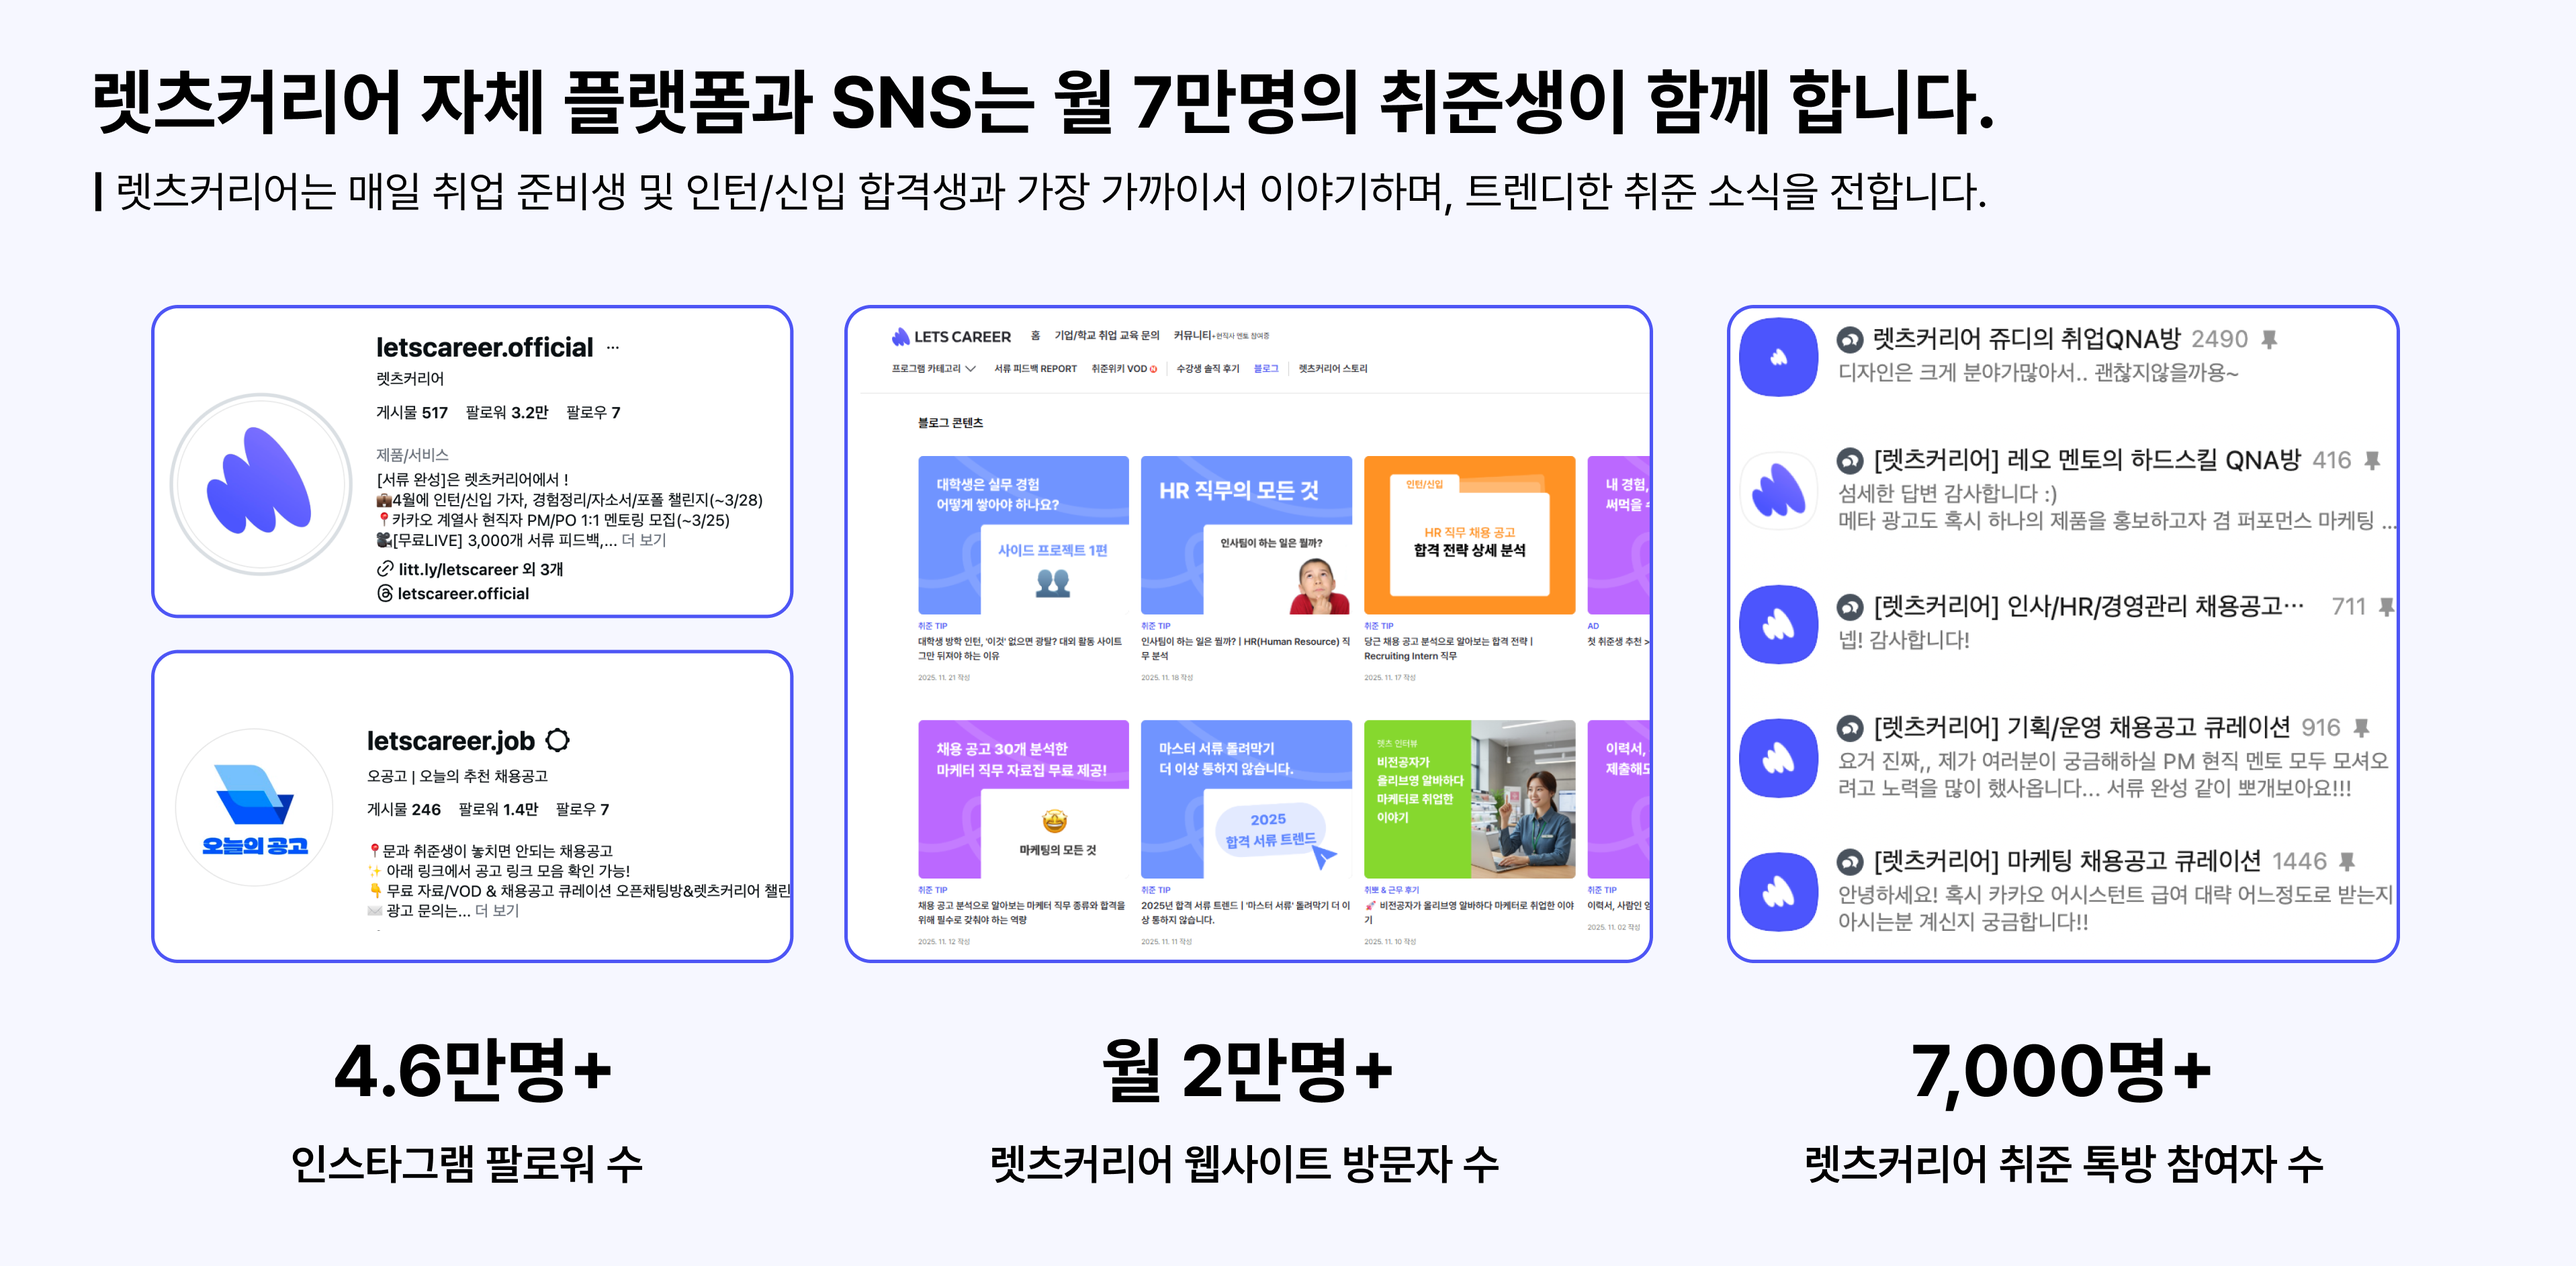
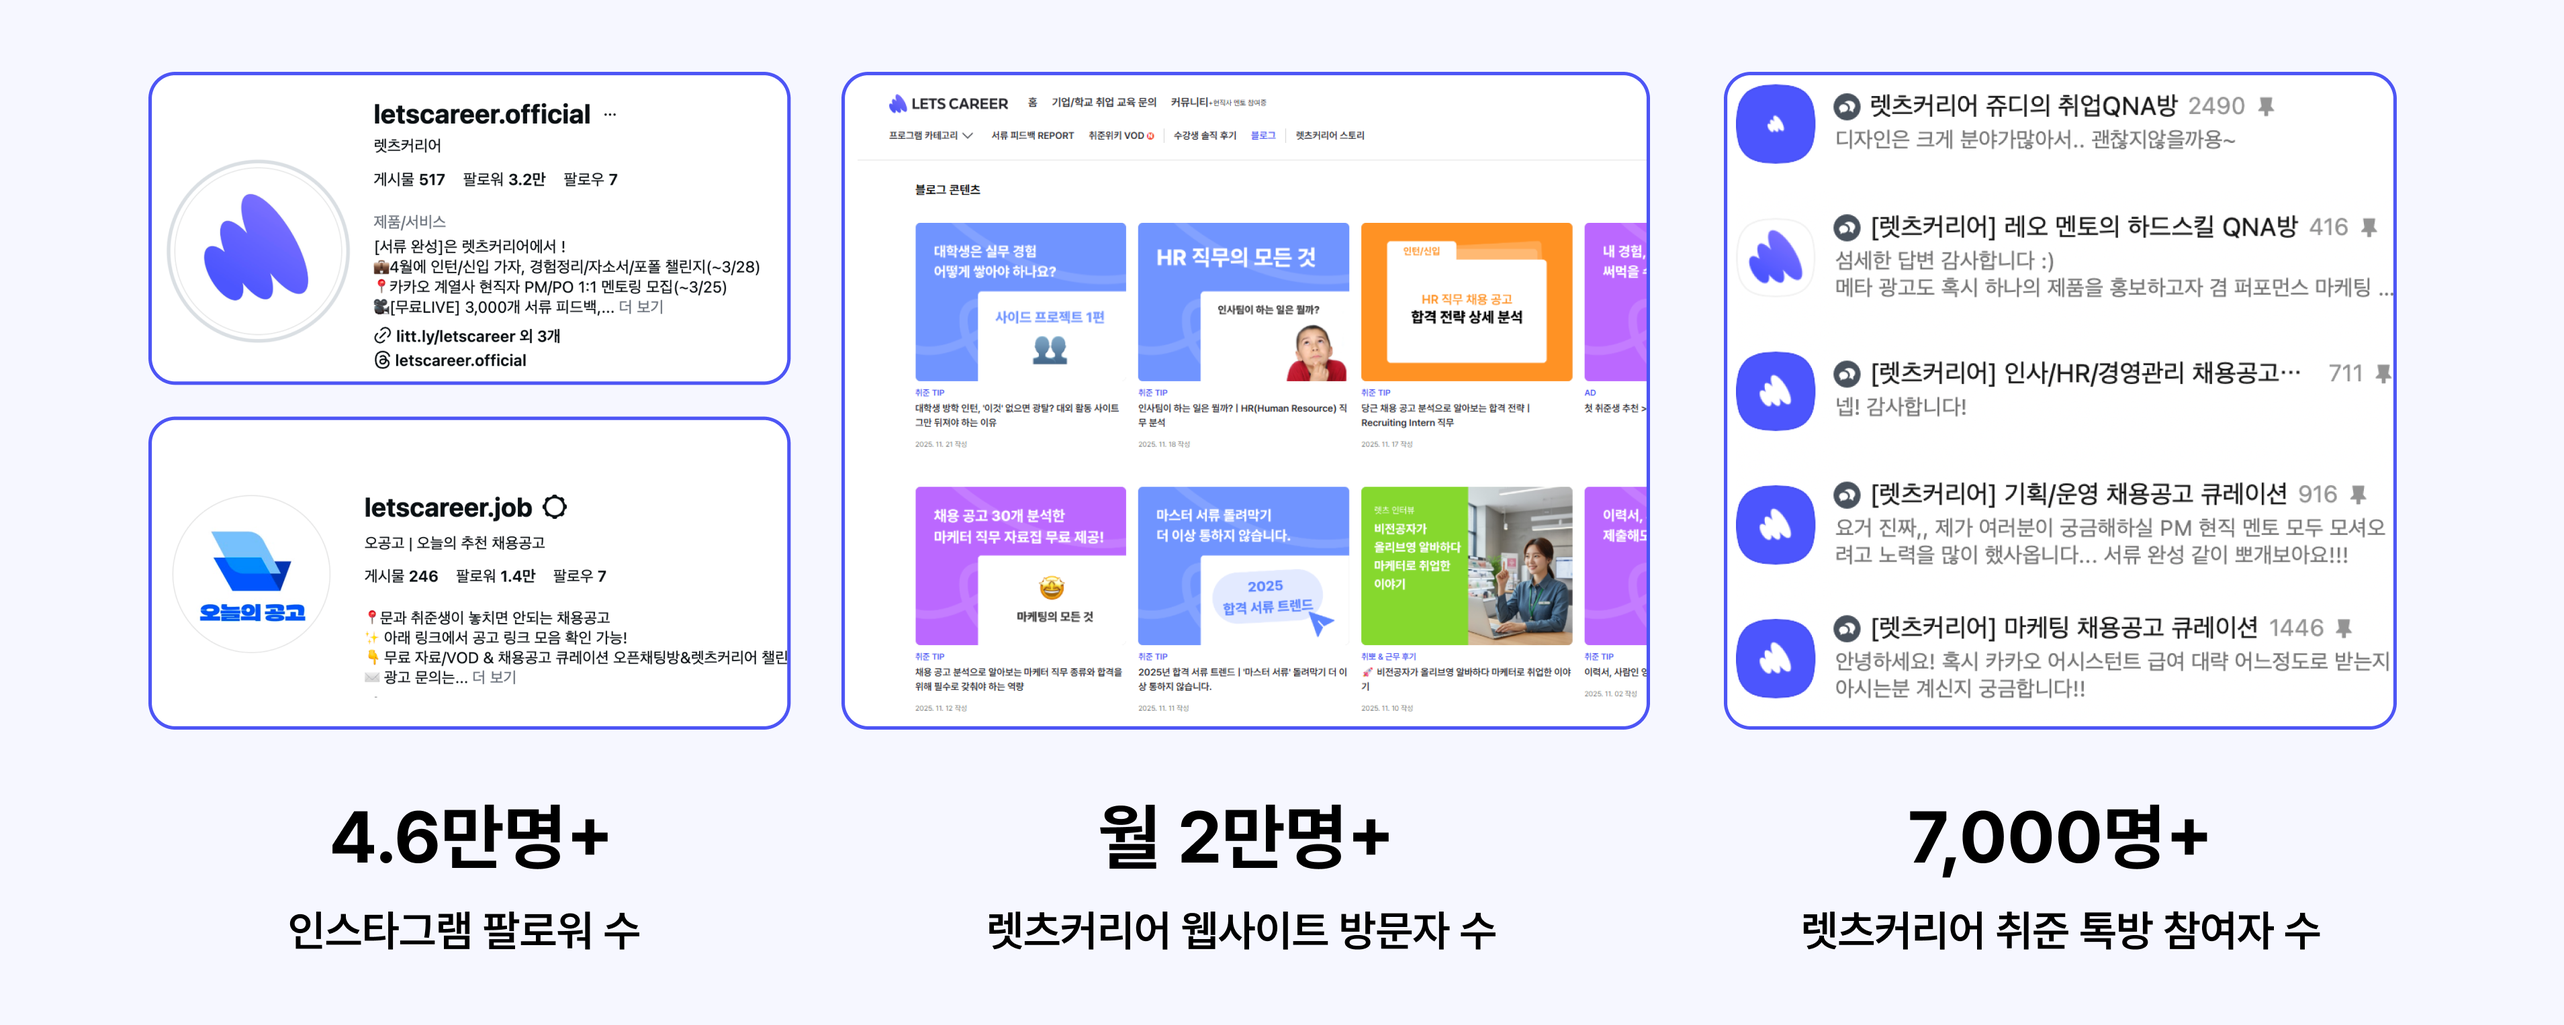
feat(community): 커뮤니티 현황을 별도 StatsSection으로 분리
히어로와 구분되도록 별도 섹션으로 분리, 데스크탑에서만 표시

Changed region(s): [[0.3428, 0.2155, 0.935, 0.9542], [0.0312, 0.0308, 0.935, 0.9542]]

diff --git a/src/domain/community/sections/StatsSection.tsx b/src/domain/community/sections/StatsSection.tsx
@@ -1,0 +1,43 @@
+'use client';
+
+import { motion } from 'motion/react';
+import Image from 'next/image';
+import communityStatsImg from '../images/community-stats.png';
+
+const FADE_IN = {
+  initial: { opacity: 0, y: 12 },
+  whileInView: { opacity: 1, y: 0 },
+  viewport: { once: true, margin: '0px 0px -10% 0px' } as const,
+  transition: { duration: 0.55 },
+};
+
+export default function StatsSection() {
+  return (
+    <section className="hidden w-full bg-white md:block">
+      <div className="mw-1180 py-24 text-center">
+        <motion.p
+          className="mb-4 text-small20 font-bold text-static-0"
+          {...FADE_IN}
+        >
+          렛츠커리어 자체 플랫폼과 SNS는 월 7만명의 취준생이 함께 합니다.
+        </motion.p>
+        <motion.p
+          className="mb-12 text-xsmall16 text-neutral-40"
+          {...FADE_IN}
+          transition={{ duration: 0.55, delay: 0.05 }}
+        >
+          렛츠커리어는 매일 취업 준비생 및 인턴/신입 합격생과 가장 가까이에서
+          이야기하며, 트렌디한 취준 소식을 전합니다.
+        </motion.p>
+        <motion.div {...FADE_IN} transition={{ duration: 0.55, delay: 0.1 }}>
+          <Image
+            src={communityStatsImg}
+            alt="렛츠커리어 커뮤니티 현황 - 인스타그램 팔로워 4.6만명+, 월 방문자 2만명+, 톡방 참여자 7,000명+"
+            className="rounded-2xl mx-auto w-full max-w-[900px]"
+            placeholder="blur"
+          />
+        </motion.div>
+      </div>
+    </section>
+  );
+}

diff --git a/src/domain/community/sections/HeroSection.tsx b/src/domain/community/sections/HeroSection.tsx
@@ -2,9 +2,7 @@
 
 import { Break } from '@/common/Break';
 import { motion } from 'motion/react';
-import Image from 'next/image';
 import { heroChips } from '../data/hero';
-import communityStatsImg from '../images/community-stats.png';
 
 const FADE_IN_UP = {
   initial: { opacity: 0, y: 12 },
@@ -56,19 +54,6 @@ export default function Hero() {
               {chip}
             </span>
           ))}
-        </motion.div>
-
-        <motion.div
-          className="-mx-4 mt-12 md:mx-0 md:mt-16"
-          {...FADE_IN_UP}
-          transition={{ duration: 0.55, delay: 0.15 }}
-        >
-          <Image
-            src={communityStatsImg}
-            alt="렛츠커리어 커뮤니티 현황 - 인스타그램 팔로워 4.6만명+, 월 방문자 2만명+, 톡방 참여자 7,000명+"
-            className="md:rounded-2xl mx-auto w-full max-w-[900px]"
-            placeholder="blur"
-          />
         </motion.div>
       </div>
 

diff --git a/src/domain/community/CommunityScreen.tsx b/src/domain/community/CommunityScreen.tsx
@@ -3,12 +3,16 @@
 import HeroSection from './sections/HeroSection';
 import InstagramSection from './sections/InstagramSection';
 import KakaoSection from './sections/KakaoSection';
+import StatsSection from './sections/StatsSection';
 
 export default function CommunityScreen() {
   return (
     <main className="w-full text-neutral-900">
       {/* Hero */}
       <HeroSection />
+
+      {/* Stats - desktop only */}
+      <StatsSection />
 
       {/* Kakao Open Chat Section */}
       <KakaoSection />
